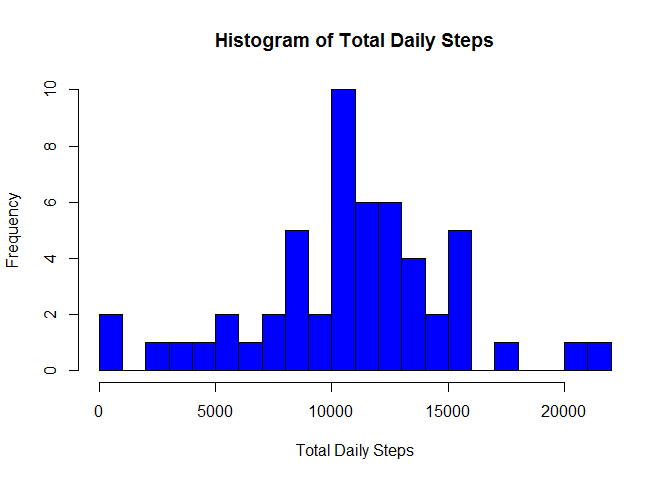
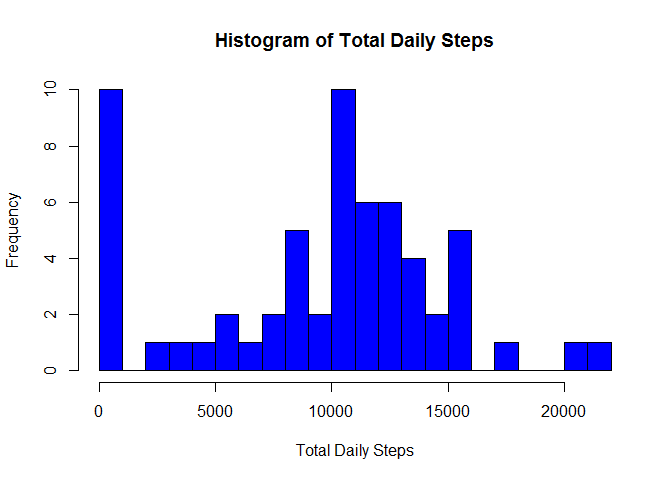
updated rmd

Changed region(s): [[0.125, 0.1875, 0.1875, 0.6562]]

diff --git a/PA1_template.html b/PA1_template.html
@@ -89,34 +89,37 @@ activity &lt;- read.csv(&quot;activity.csv&quot;)
 <h2>What is mean total number of steps taken per day?</h2>
 <p>The following histogram shows the distribution of frequencies of the number of steps taken each day:</p>
 <pre class="r"><code>library(plyr)
-daily_steps &lt;- subset(ddply(activity, c(&quot;date&quot;), summarise, total_steps = sum(steps, na.rm = TRUE)), total_steps != 0)
+# summarize the data by date
+daily_steps &lt;- ddply(activity, c(&quot;date&quot;), summarise, total_steps = sum(steps, na.rm = TRUE))
+
+# create histogram
 hist(daily_steps$total_steps,  breaks = 20 ,col=&quot;blue&quot;, xlab = &quot;Total Daily Steps&quot;, main = &quot;Histogram of Total Daily Steps&quot;)</code></pre>
[1 lines of base64/hex data omitted]
-<pre class="r"><code>mean_daily_steps &lt;- prettyNum(round(mean(daily_steps$total_steps), 0), big.mark = &quot;,&quot;)
-median_daily_steps &lt;- prettyNum(median(daily_steps$total_steps), big.mark = &quot;,&quot;)</code></pre>
-<p>The average number of steps taken was 10,766 and the median was 10,765.</p>
[1 lines of base64/hex data omitted]
+<p>The average number of steps taken was 9,354 and the median was 10,395.</p>
 </div>
 <div id="what-is-the-average-daily-activity-pattern" class="section level2">
 <h2>What is the average daily activity pattern?</h2>
 <p>The following chart</p>
-<pre class="r"><code>activity_pattern &lt;- subset(ddply(activity, c(&quot;interval&quot;), summarize, average_steps = mean(steps, na.rm = TRUE)),  average_steps != 0)
+<pre class="r"><code>#activity_pattern &lt;- subset(ddply(activity, c(&quot;interval&quot;), summarize, average_steps = mean(steps, na.rm = TRUE)),  average_steps != 0)
+activity_pattern &lt;- ddply(activity, c(&quot;interval&quot;), summarize, average_steps = mean(steps, na.rm = TRUE))
 plot(activity_pattern, type=&quot;l&quot;, col=&quot;blue&quot;, xlab=&quot;Time Interval&quot;, ylab=&quot;Average Steps&quot;, main=&quot;Average Steps Taken per Time Interval&quot;)</code></pre>
[1 lines of base64/hex data omitted]
-<pre class="r"><code>max_steps &lt;- activity_pattern[with(activity_pattern, order(-average_steps)),][1,]
-max_interval &lt;- prettyNum(max_steps$interval[1], big.mark = &quot;,&quot;)
-max_avg &lt;- prettyNum(round(max_steps$average_steps[1], 0), big.mark = &quot;,&quot;)</code></pre>
[1 lines of base64/hex data omitted]
+<pre class="r"><code>max_steps &lt;- activity_pattern[with(activity_pattern, order(-average_steps)),][1,]</code></pre>
 <p>The interval with the highest average number of steps was 835 with an average of 206 steps.</p>
 </div>
 <div id="imputing-missing-values" class="section level2">
 <h2>Imputing missing values</h2>
-<pre class="r"><code>msbi &lt;- ddply(activity, c(&quot;interval&quot;), summarize, median_steps = median(steps, na.rm = TRUE))
-activity_2 &lt;- data.frame(interval = activity$interval, date = activity$date, steps=msbi[match(activity$interval, msbi$interval), 2])
+<pre class="r"><code># get the median number of steps per interval
+msbi &lt;- ddply(activity, c(&quot;interval&quot;), summarize, median_steps = median(steps, na.rm = TRUE))
+
+# create a new data frame replacing NA values with the meidan value for that interval
+activity_2 &lt;- data.frame(interval = activity$interval, date = activity$date, steps=ifelse(is.na(activity$steps), msbi[match(activity$interval, msbi$interval), 2], activity$steps), steps_old = activity$steps)
+
+# summarize the data by date
 daily_steps_2 &lt;- subset(ddply(activity_2, c(&quot;date&quot;), summarize, total_steps = sum(steps, na.rm = TRUE)), total_steps != 0)
 hist(daily_steps$total_steps,  breaks = 20 ,col=&quot;blue&quot;, xlab = &quot;Total Daily Steps&quot;, main = &quot;Histogram of Total Daily Steps&quot;)</code></pre>
[1 lines of base64/hex data omitted]
-<pre class="r"><code>mean_daily_steps_2 &lt;- prettyNum(round(mean(daily_steps_2$total_steps), 0), big.mark = &quot;,&quot;)
-median_daily_steps_2 &lt;- prettyNum(median(daily_steps_2$total_steps), big.mark = &quot;,&quot;)</code></pre>
-<p>The average number of steps taken was 1,141 and the median was 1,141.</p>
[1 lines of base64/hex data omitted]
+<p>The average number of steps taken was 9,504 (a change of 150) and the median was 10,395 (a change of 0).</p>
 </div>
 <div id="are-there-differences-in-activity-patterns-between-weekdays-and-weekends" class="section level2">
 <h2>Are there differences in activity patterns between weekdays and weekends?</h2>

diff --git a/PA1_template.md b/PA1_template.md
@@ -28,23 +28,25 @@ The following histogram shows the distribution of frequencies of the number of s
 
 ```r
 library(plyr)
-daily_steps <- subset(ddply(activity, c("date"), summarise, total_steps = sum(steps, na.rm = TRUE)), total_steps != 0)
+# summarize the data by date
+daily_steps <- ddply(activity, c("date"), summarise, total_steps = sum(steps, na.rm = TRUE))
+
+# create histogram
 hist(daily_steps$total_steps,  breaks = 20 ,col="blue", xlab = "Total Daily Steps", main = "Histogram of Total Daily Steps")
 ```
 
 ![](PA1_template_files/figure-html/dialy_steps-1.png) 
 
-```r
-mean_daily_steps <- prettyNum(round(mean(daily_steps$total_steps), 0), big.mark = ",")
-median_daily_steps <- prettyNum(median(daily_steps$total_steps), big.mark = ",")
-```
-The average number of steps taken was 10,766 and the median was 10,765.
+
+
+The average number of steps taken was 9,354 and the median was 10,395.
 
 ## What is the average daily activity pattern?
 The following chart
 
 ```r
-activity_pattern <- subset(ddply(activity, c("interval"), summarize, average_steps = mean(steps, na.rm = TRUE)),  average_steps != 0)
+#activity_pattern <- subset(ddply(activity, c("interval"), summarize, average_steps = mean(steps, na.rm = TRUE)),  average_steps != 0)
+activity_pattern <- ddply(activity, c("interval"), summarize, average_steps = mean(steps, na.rm = TRUE))
 plot(activity_pattern, type="l", col="blue", xlab="Time Interval", ylab="Average Steps", main="Average Steps Taken per Time Interval")
 ```
 
@@ -52,9 +54,10 @@ plot(activity_pattern, type="l", col="blue", xlab="Time Interval", ylab="Average
 
 ```r
 max_steps <- activity_pattern[with(activity_pattern, order(-average_steps)),][1,]
-max_interval <- prettyNum(max_steps$interval[1], big.mark = ",")
-max_avg <- prettyNum(round(max_steps$average_steps[1], 0), big.mark = ",")
 ```
+
+
+
 The interval with the highest average number of steps was 835 with an average of 206 steps.
 
 ## Imputing missing values
@@ -62,19 +65,20 @@ The interval with the highest average number of steps was 835 with an average of
 
 
 ```r
+# get the median number of steps per interval
 msbi <- ddply(activity, c("interval"), summarize, median_steps = median(steps, na.rm = TRUE))
-activity_2 <- data.frame(interval = activity$interval, date = activity$date, steps=msbi[match(activity$interval, msbi$interval), 2])
+
+# create a new data frame replacing NA values with the meidan value for that interval
+activity_2 <- data.frame(interval = activity$interval, date = activity$date, steps=ifelse(is.na(activity$steps), msbi[match(activity$interval, msbi$interval), 2], activity$steps), steps_old = activity$steps)
+
+# summarize the data by date
 daily_steps_2 <- subset(ddply(activity_2, c("date"), summarize, total_steps = sum(steps, na.rm = TRUE)), total_steps != 0)
 hist(daily_steps$total_steps,  breaks = 20 ,col="blue", xlab = "Total Daily Steps", main = "Histogram of Total Daily Steps")
 ```
 
 ![](PA1_template_files/figure-html/Imputing_values-1.png) 
 
-```r
-mean_daily_steps_2 <- prettyNum(round(mean(daily_steps_2$total_steps), 0), big.mark = ",")
-median_daily_steps_2 <- prettyNum(median(daily_steps_2$total_steps), big.mark = ",")
-```
-The average number of steps taken was 1,141 and the median was 1,141.
 
+The average number of steps taken was 9,504 (a change of 150) and the median was 10,395 (a change of 0).
 
 ## Are there differences in activity patterns between weekdays and weekends?
